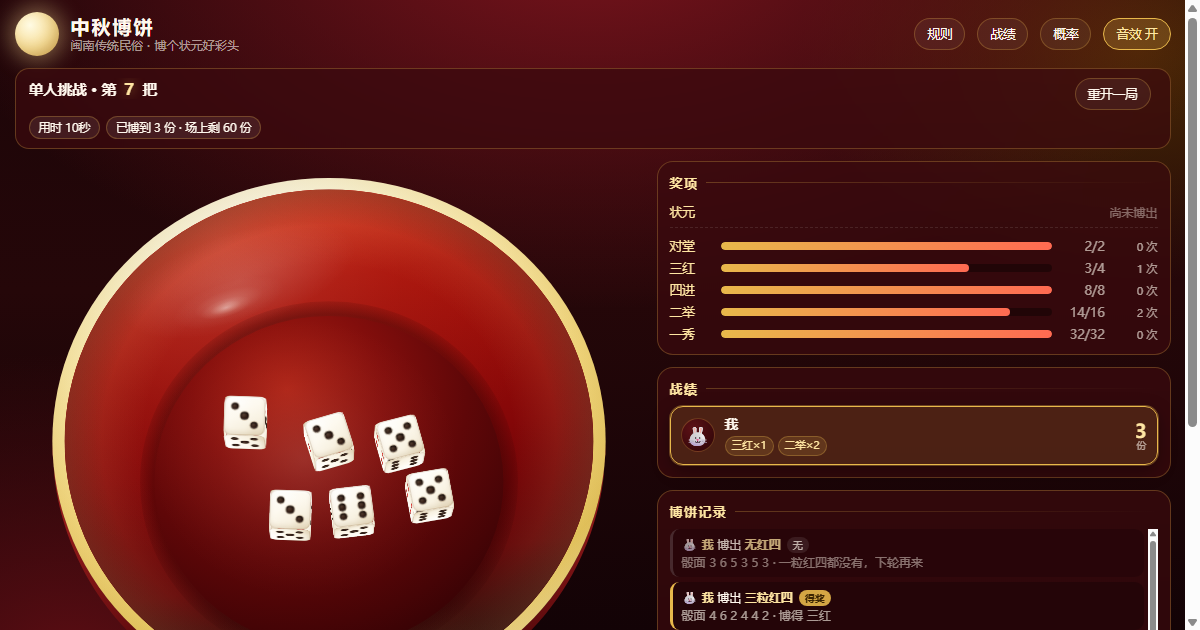
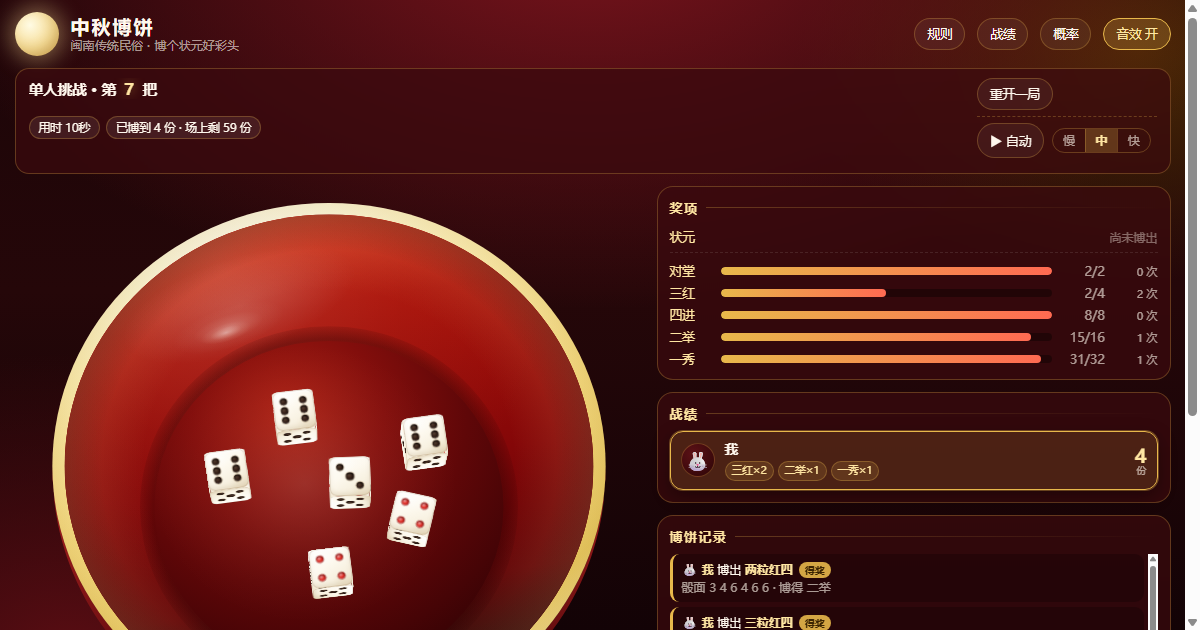
新增自动模式：挂机博到本局结束，随时暂停 / 继续 / 停止
功能（按用户确认的口径）：
- 一键「▶ 自动」：自动替所有玩家轮流博，一路博到本局结束
  （奖项发完进收官轮、出结算弹层）才自己停，不用人管
- ⏸ 暂停 / ▶ 继续：暂停时定时器全部取消（连快档"切动画"那一刀也一起取消），
  局面完整保留；■ 停止：退出自动模式，局面保留可继续手动博
- 慢 / 中 / 快三档节奏（≈2.5s / 1.5s / 0.43s 一次）：慢/中等动画播完再走，
  快档起动画 90ms 后直接切到落定（skipAnim），适合快速跑统计
- 控件放状态栏新增的第三行（grid-template-areas 三处同步加 "auto auto"），
  不挤占「博一次 / 重开一局」的位置；速度是使用偏好，跨局保留
- 本局结束时自动模式自己停并 toast 提示；开始/结束时「博一次」按钮同步禁用/恢复

实现要点：
- autoTick() 驱动：动画未落定（state.busy）时下一拍再看，不与动画抢状态；
  复用 doRoll/skipAnim 完整反馈链路（结果条、音效、战绩、概率都照常刷）
- autoSpeedIdx 跨局保留但不进局面状态（重开一局不重置速度选择）

验证：
- 8 组探针 × 四档视口（1280/520/420/360）全绿，共 269 项断言（新增 13 条），0 运行时错误
- 6 组反证全部如期变红：控件改名 / 栅格丢第三行 / 暂停守卫被削弱
  （tick 照样推进 5 步）/ 结束不自己停 / 自动键不收起 / 慢档间隔反超中档
- 定时器链路用无头 Chrome 真时钟端到端验证：暂停冻结 → 继续接推 → 停止即停；
  快档挂机 476 把一直博到 game over，自动模式自己停掉并出结算
- 同步进 tools/bowl_base.html 基线：从基线重跑 gen_bowl.js 重建整页，
  自动模式代码一字不丢（cmp 逐字节一致）—— 生成器不变量保持成立

diff --git a/README.md b/README.md
@@ -42,6 +42,9 @@
 ## 功能
 
 - **2–6 人本地传阅** / **单人挑战**（一项设备围一圈轮流博）
+- **自动模式** —— 一键挂机：自动替所有玩家轮流博到本局结束（含收官轮与结算），
+  随时 ⏸ 暂停 / ▶ 继续 / ■ 停止（局面保留）；慢 / 中 / 快三档节奏，
+  快档会跳过骰子动画直接落定。本局结束时自动模式自己停，不用人管
 - **桌面 / 手机双端适配** —— 响应式布局，手机上碗与骰子自动缩到合适大小，排版不会跳
 - **自定义奖项数量** —— 除状元（固定 1 份，因为它「唯一、可被更大的状元夺走」）外，
   对堂 / 三红 / 四进 / 二举 / 一秀 各级多少份都能改，总数自动跟着变
@@ -74,7 +77,7 @@ python -m http.server 8000
 - `?demo=N` —— 直接开一桌 4 人并先博 N 次
 - `?demo=N&solo=1` —— 直接进单人挑战
 - `&open=rules|hist|stat|result` —— 直接打开对应弹层
-- `?selftest=exhaustive|flow|steal|input|rules|dice|solo|quota` —— 自检探针（8 组共 258 项断言）
+- `?selftest=exhaustive|flow|steal|input|rules|dice|solo|quota` —— 自检探针（8 组共 269 项断言）
 
 ---
 
